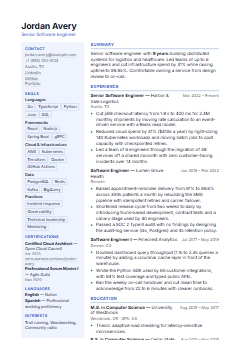
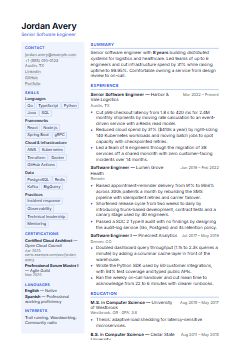
resume-templates: sidebar page headroom (main-column entries split across pages, line-height 1.32)
The sidebar's main column now lets a long role break across pages with its head kept with the first bullet (orphans/widows 2, bullets never split), removing the ~140pt gap at the foot of page 1. Line height 1.35 to 1.32. Headroom 0 -> 3 extra two-line bullets within two pages; template-fit.browser.test now covers sidebar. Thumbnail regenerated.

diff --git a/packages/ui/styles/resume.css b/packages/ui/styles/resume.css
@@ -626,7 +626,7 @@
   grid-template-areas: "header header" "side main";
   column-gap: 1.4em;
   align-content: start;
-  line-height: 1.35;
+  line-height: 1.32;
 }
 
 .rz-page.rz-tpl-sidebar.rz-no-side {
@@ -685,6 +685,26 @@
 
 .rz-tpl-sidebar .rz-item-title {
   font-weight: 700;
+}
+
+/* Page fit: the main column is narrow, so a long role may split across pages (whole entries left a ~140pt hole at the foot of
+   page 1). The head stays with the first bullet, a bullet never splits, and nothing is left as a lone line. */
+.rz-tpl-sidebar .rz-main .rz-entry {
+  break-inside: auto;
+  orphans: 2;
+  widows: 2;
+}
+
+.rz-tpl-sidebar .rz-main .rz-item-head {
+  break-after: avoid;
+}
+
+.rz-tpl-sidebar .rz-main .rz-bullet {
+  break-inside: avoid;
+}
+
+.rz-tpl-sidebar .rz-main .rz-bullet:last-child {
+  break-before: avoid;
 }
 
 /* Sidebar: titles in accent without a rule, body at 0.9em. */

diff --git a/packages/ui/src/resume/templates/sidebar.test.tsx b/packages/ui/src/resume/templates/sidebar.test.tsx
@@ -153,6 +153,11 @@ describe("sidebar specifics", () => {
       expect(css).toMatch(/break-inside:\s*auto/);
       expect(css).toMatch(/border-radius:\s*4px/);
     });
+    it("main-column entries may split across pages, with the head kept with its first bullet", () => {
+      expect(css).toMatch(/\.rz-main \.rz-entry\s*\{[^}]*break-inside:\s*auto/);
+      expect(css).toMatch(/\.rz-main \.rz-item-head\s*\{[^}]*break-after:\s*avoid/);
+      expect(css).toMatch(/\.rz-main \.rz-bullet\s*\{[^}]*break-inside:\s*avoid/);
+    });
     it("no icons or generated content, no absolute positioning, no url()", () => {
       for (const bad of ["url(", "position:", "float:", "column-count"]) expect(css).not.toContain(bad);
       expect(css).not.toMatch(/(?:^|[\s;{])content:/); // generated text (align-content is layout, not content)

diff --git a/web/src/lib/template-fit.browser.test.tsx b/web/src/lib/template-fit.browser.test.tsx
@@ -46,9 +46,9 @@ function withExtraBullets(n: number): ResumeDocument {
 
 /**
  * Templates that must keep room for two extra bullets inside two pages at step 0 (headroom, so editing a little never
- * jumps to a third page). Sidebar is left out: its main column is narrower and has no headroom yet.
+ * jumps to a third page).
  */
-const EXTRA_BULLET_HEADROOM = ["modern", "classic", "compact", "simple", "engineer", "consultant", "scholar", "executive", "statement"];
+const EXTRA_BULLET_HEADROOM = ["modern", "classic", "compact", "simple", "engineer", "consultant", "scholar", "executive", "statement", "sidebar"];
 
 /** A template's own starting theme (what a new resume in it, or a switch to it, applies). */
 const defaultsOf = (id: string): Partial<ResumeTheme> => ({ ...(getTemplate(id).meta.defaults ?? {}) });

diff --git a/docs/resume-builder/templates/TEMPLATES-DESIGN.md b/docs/resume-builder/templates/TEMPLATES-DESIGN.md
@@ -601,7 +601,8 @@ allows). Rendering of the item kinds not mentioned in a spec is the shared defau
   && photoSrc`; `photoDefault: false` (region note in DESIGN §5 applies); square crop, circle mask.
 - **Defaults:** `{ fontPair: "inter", spacing: "normal" }`.
 - **Pagination:** the grid row "side main" breaks across pages; both columns continue on page 2 at
-  the top of their column; entries carry `break-inside: avoid` (shared).
+  the top of their column; in the main column an entry may split (`break-inside: auto`, `orphans/widows: 2`) but its head keeps with the first bullet
+  (`break-after: avoid`) and a bullet never splits; the aside's entries carry `break-inside: avoid` (shared).
 - **Thumbnail:** tinted left column with Contact and skill chips, blue headings right; no photo (none
   in the fixture's render — the thumbnail generator passes no `photoSrc`).
 
@@ -784,9 +785,9 @@ exactly as today.
 | consultant | compact (target capped at 1) | ≤ 2 (reported "Still 2 pages") | ≤ 3 |
 
 **Headroom (added 2026-10-17):** at step 0 the sample plus **two extra two-line bullets** on the last role must still print in
-two pages for every template except `sidebar` (two columns, no headroom yet): an edit must not tip a document onto a third
-page. `template-fit.browser.test.tsx` asserts it. `modern`, `executive` and `statement` met it by tightening their own CSS block
-(line height, section gap, entry gap), not the ladder; measured extra bullets before page 3 are in the QA report.
+two pages for every template: an edit must not tip a document onto a third
+page. `template-fit.browser.test.tsx` asserts it. `modern`, `executive`, `statement` and `sidebar` met it by tightening their own CSS block
+(line height, section gap, entry gap; sidebar also lets a long role split across pages in its main column, head kept with its first bullet), not the ladder; measured extra bullets before page 3 are in the QA report.
 
 These are the §12.4 assertions. If a template misses its budget the template's rhythm is too loose —
 fix the CSS, do not change the ladder.
